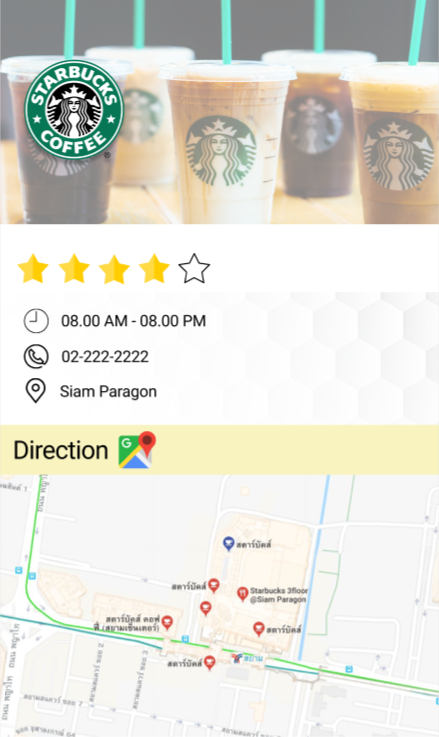
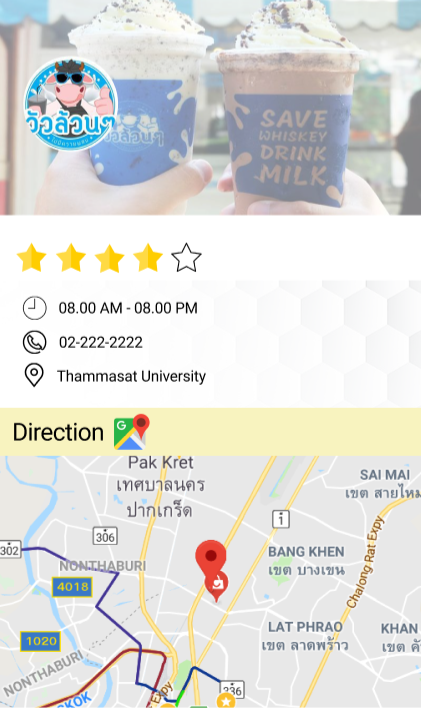
change starbuck to fresh milk

diff --git a/src/Cozi/MyCards.js b/src/Cozi/MyCards.js
@@ -16,7 +16,7 @@ import shopBbqplaza from '../assets/images/shop_bbqplaza.png'
 import shopMk from '../assets/images/shop_mk.jpg'
 import shopAfteryou from '../assets/images/shop_afteryou.png'
 import shopShabushi from '../assets/images/shop_shabushi.jpg'
-import shopStarbucks from '../assets/images/shop_starbucks.jpg'
+import shopStarbucks from '../assets/images/shop_starbucks.png'
 import shopCoffee from '../assets/images/shop_coffee.png'
 import shopCosta from '../assets/images/shop_costa.png'
 import shopShabulaos from '../assets/images/shop_shabulaos.jpeg'

diff --git a/src/Cozi/CardStarbucks.js b/src/Cozi/CardStarbucks.js
@@ -54,7 +54,7 @@ export default class CardStabucks extends Component {
                 align='center'
                 style={{ flexGrow: 1, marginLeft: 50 }}
               >
-                Costa Coffee Club
+                Fresh Milk
               </Typography>
               {this.props.badge
                 ? <IconButton
